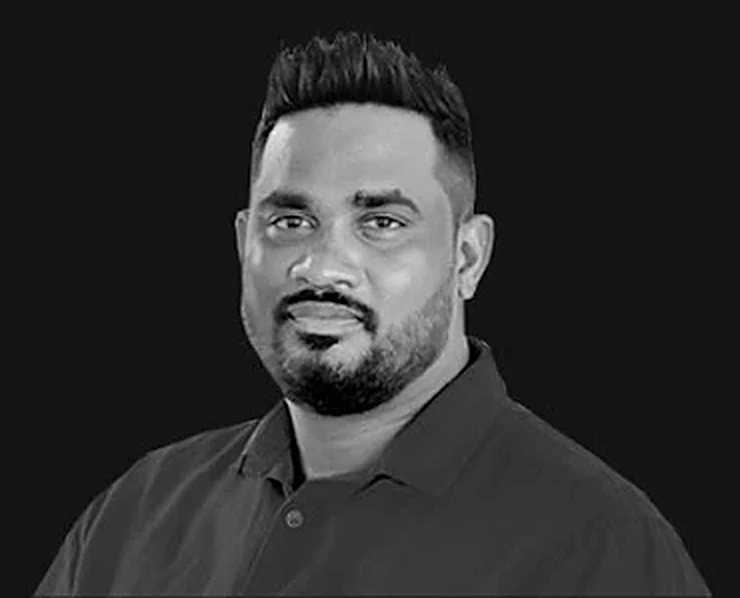
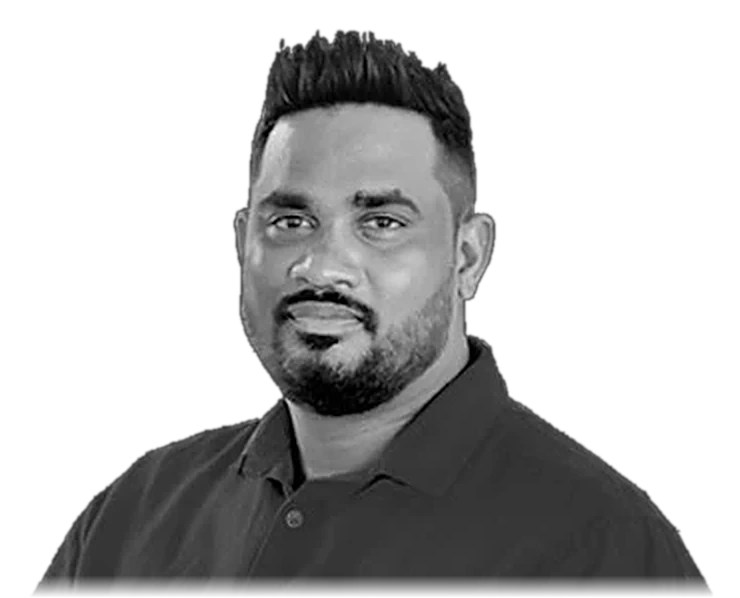
feat(hero): use AI-generated silhouettes, clean cutout Sir photo, and high-contrast hero text

diff --git a/src/components/landing/hero-silhouettes.tsx b/src/components/landing/hero-silhouettes.tsx
@@ -4,100 +4,87 @@ import { motion, type MotionValue, useReducedMotion, useTransform } from "framer
 const ease = [0.22, 1, 0.36, 1] as const;
 
 /**
- * Spaceship-style backlit studio spotlight + two silhouetted figures behind the hero.
- * Uses the active theme's --brand-500/--brand-600 glow and animates with scroll parallax.
+ * Spaceship-style backlit studio spotlight + two AI-generated silhouetted student figures behind the hero.
+ * Follows the active theme's --brand-500/--brand-600 glow and animates smoothly with scroll parallax.
  */
 export function HeroSilhouettes({ progress }: { progress: MotionValue<number> }) {
   const reduce = useReducedMotion();
 
-  const beamScale = useTransform(progress, [0, 1], [1, 1.24]);
-  const beamY = useTransform(progress, [0, 1], [0, -55]);
+  const beamScale = useTransform(progress, [0, 1], [1, 1.22]);
+  const beamY = useTransform(progress, [0, 1], [0, -50]);
   const beamOpacity = useTransform(progress, [0, 0.9], [1, 0.25]);
 
-  const leftX = useTransform(progress, [0, 1], [0, -90]);
-  const leftY = useTransform(progress, [0, 1], [0, 48]);
+  const leftX = useTransform(progress, [0, 1], [0, -85]);
+  const leftY = useTransform(progress, [0, 1], [0, 42]);
   const leftScale = useTransform(progress, [0, 1], [1, 1.08]);
 
-  const rightX = useTransform(progress, [0, 1], [0, 110]);
+  const rightX = useTransform(progress, [0, 1], [0, 95]);
   const rightY = useTransform(progress, [0, 1], [0, 28]);
-  const rightScale = useTransform(progress, [0, 1], [1, 1.12]);
+  const rightScale = useTransform(progress, [0, 1], [1, 1.1]);
 
-  const silhouetteOpacity = useTransform(progress, [0, 0.85], [1, 0.2]);
+  const silhouetteOpacity = useTransform(progress, [0, 0.88], [0.92, 0.15]);
 
   return (
     <div aria-hidden className="pointer-events-none absolute inset-0 overflow-hidden select-none">
-      {/* Deep edge vignette so the dark sides blend seamlessly */}
-      <div
-        className="absolute inset-0"
-        style={{
-          background:
-            "radial-gradient(ellipse 68% 78% at 50% 42%, hsl(var(--brand-500) / 0.85) 0%, hsl(var(--brand-600) / 0.55) 36%, hsl(var(--brand-950) / 0.35) 68%, transparent 100%)",
-        }}
-      />
-
-      {/* Angled backlit studio cone beam */}
+      {/* Soft radial studio spotlight glow in active brand shade */}
       <motion.div
         style={reduce ? undefined : { scale: beamScale, y: beamY, opacity: beamOpacity }}
         initial={reduce ? undefined : { opacity: 0, scale: 0.94 }}
         animate={{ opacity: 1, scale: 1 }}
         transition={{ duration: 1.2, ease }}
-        className="absolute inset-x-0 -top-24 bottom-0 flex justify-center"
+        className="absolute inset-0 flex items-center justify-center"
       >
         <div
-          className="h-full w-[min(1180px,135vw)] blur-2xl"
+          className="h-[120%] w-[min(1260px,145vw)] blur-[72px]"
           style={{
             background:
-              "linear-gradient(180deg, hsl(var(--brand-500) / 0.9) 0%, hsl(var(--brand-400) / 0.65) 48%, hsl(var(--brand-600) / 0.12) 92%, transparent 100%)",
-            clipPath: "polygon(22% 0%, 78% 0%, 96% 100%, 4% 100%)",
+              "radial-gradient(ellipse 52% 62% at 50% 44%, hsl(var(--brand-500) / 0.72) 0%, hsl(var(--brand-600) / 0.44) 38%, hsl(var(--brand-800) / 0.18) 65%, transparent 88%)",
           }}
         />
       </motion.div>
 
-      {/* Left silhouette (male figure, slightly further back, turned inward) */}
+      {/* Left silhouette (male figure, framed cleanly on left side, moving outward on scroll) */}
       <motion.div
         style={reduce ? undefined : { x: leftX, y: leftY, scale: leftScale, opacity: silhouetteOpacity }}
         initial={reduce ? undefined : { opacity: 0, y: 36, x: -24 }}
-        animate={{ opacity: 1, y: 0, x: 0 }}
+        animate={{ opacity: 0.92, y: 0, x: 0 }}
         transition={{ duration: 1.0, delay: 0.1, ease }}
-        className="absolute bottom-0 left-[2%] h-[78%] w-[48vw] max-w-[380px] origin-bottom sm:left-[8%] sm:h-[85%] lg:left-[14%] xl:left-[18%]"
+        className="absolute bottom-0 left-[-4%] h-[58%] origin-bottom sm:left-[3%] sm:h-[72%] lg:left-[8%] lg:h-[78%] xl:left-[12%]"
       >
-        <svg
-          viewBox="0 0 360 640"
-          preserveAspectRatio="xMidYMax meet"
-          className="h-full w-full drop-shadow-[0_0_24px_hsl(var(--brand-400)/0.25)]"
-        >
-          <path
-            fill="#04070f"
-            d="M174 34c18 0 34 6 43 17 5 6 7 13 6 20 5 1 11 4 12 8 1 4-2 8-4 11 2 4 4 8 6 12 2 4 4 7 2 10-2 3-5 3-6 5 1 4 0 8-2 11 2 3 1 7-2 9-3 3-8 4-15 6-5 1-10 3-12 7-2 5 0 14 2 22 25 9 50 18 61 35 9 14 14 45 19 85 5 41 9 72 9 77-6 3-13 5-20 6 1 38 3 84 4 118 2 44 6 95 9 147H84c3-54 8-107 10-149 2-32 1-74 2-112-8 2-16 8-19 20-5 20-8 56-11 87-2 23-3 41-2 52 2 12 8 24 8 34 0 8-5 15-10 15-4 0-6-7-7-13-1 7-3 15-8 15-5 0-8-9-8-22 0-16 2-34 2-51 0-34-1-74 5-107 5-28 14-50 28-64 11-11 29-20 51-28 3-10 4-20 2-29-2-6-6-10-10-16-4-7-6-15-6-23-5-2-8-8-8-14 0-5 2-9 5-11-3-8-4-18-2-27 4-18 17-34 37-41 10-4 21-6 31-6Z"
-          />
-        </svg>
+        {/* eslint-disable-next-line @next/next/no-img-element */}
+        <img
+          src="/images/silhouette-male.webp"
+          alt=""
+          loading="eager"
+          decoding="async"
+          className="h-full w-auto max-w-none object-contain object-bottom drop-shadow-[0_0_32px_hsl(var(--brand-400)/0.28)]"
+        />
       </motion.div>
 
-      {/* Right silhouette (female figure with long hair, closer foreground, profile facing left) */}
+      {/* Right silhouette (female figure with long hair, framed cleanly on right side) */}
       <motion.div
         style={reduce ? undefined : { x: rightX, y: rightY, scale: rightScale, opacity: silhouetteOpacity }}
         initial={reduce ? undefined : { opacity: 0, y: 40, x: 28 }}
-        animate={{ opacity: 1, y: 0, x: 0 }}
+        animate={{ opacity: 0.92, y: 0, x: 0 }}
         transition={{ duration: 1.05, delay: 0.18, ease }}
-        className="absolute bottom-0 right-[-4%] h-[86%] w-[56vw] max-w-[440px] origin-bottom sm:right-[4%] sm:h-[92%] lg:right-[10%] xl:right-[15%]"
+        className="absolute bottom-0 right-[-5%] h-[62%] origin-bottom sm:right-[2%] sm:h-[76%] lg:right-[7%] lg:h-[82%] xl:right-[11%]"
       >
-        <svg
-          viewBox="0 0 420 680"
-          preserveAspectRatio="xMidYMax meet"
-          className="h-full w-full drop-shadow-[0_0_28px_hsl(var(--brand-400)/0.25)]"
-        >
-          <path
-            fill="#03050c"
-            d="M206 16c26 0 49 12 64 31 15 20 24 50 32 95 7 40 12 72 22 104 20 12 36 27 44 48 9 23 15 62 24 126 10 68 20 144 28 260H102c-2-36-5-72-7-105-3-47-6-86-6-114-5 1-11-1-15-5-3-4-4-11-4-20 0-34 2-74 9-107 7-31 18-52 34-66 13-12 29-22 45-31 5-14 7-30 5-44-10-1-18-5-24-11-5-5-8-12-9-19-4-2-7-5-7-9 0-3 3-6 5-8-3-3-6-6-7-10-1-4 1-8 4-11-3-3-7-5-10-9-3-4-4-8-2-12 3-6 9-13 13-22 4-9 6-20 11-29 9-17 25-28 45-33 7-2 15-3 22-3Z"
-          />
-        </svg>
+        {/* eslint-disable-next-line @next/next/no-img-element */}
+        <img
+          src="/images/silhouette-female.webp"
+          alt=""
+          loading="eager"
+          decoding="async"
+          className="h-full w-auto max-w-none object-contain object-bottom drop-shadow-[0_0_32px_hsl(var(--brand-400)/0.28)]"
+        />
       </motion.div>
 
-      {/* Soft top/bottom atmospheric blends into navbar & page transition */}
+      {/* Subtle dark atmospheric top vignette + center depth scrim so foreground text always pops sharply */}
       <div
-        className="absolute inset-x-0 top-0 h-32"
+        className="absolute inset-0"
         style={{
-          background: "linear-gradient(180deg, rgba(2,6,18,0.55) 0%, transparent 100%)",
+          background:
+            "radial-gradient(ellipse 64% 50% at 50% 34%, rgba(4,9,24,0.42) 0%, transparent 72%), linear-gradient(180deg, rgba(2,6,18,0.62) 0%, rgba(2,6,18,0.12) 28%, rgba(2,6,18,0.22) 100%)",
         }}
       />
     </div>

diff --git a/src/components/landing/hero-banner.tsx b/src/components/landing/hero-banner.tsx
@@ -19,26 +19,29 @@ export function HeroBanner({ label, className, photo }: { label: string; classNa
   return (
     <div className={className}>
       <div aria-hidden className="relative w-full max-w-[1000px] select-none overflow-hidden text-white [container-type:inline-size] [text-rendering:geometricPrecision]" style={{ aspectRatio: "1000 / 351" }}>
-        {/* Sir's photo — its edges fade into the page so the cut-out never shows a box */}
+        {/* Sir's photo — transparent cutout with a gentle bottom-only fade so no box border ever shows */}
         <Image src={photo || "/images/hasitha-hero.webp"} alt="" width={740} height={598} priority sizes="(min-width:1040px) 370px, 37vw"
-          className="absolute bottom-0 h-auto w-[37%] [mask-image:linear-gradient(to_right,transparent,#000_14%,#000_86%,transparent)]" style={{ left: "57.5%" }} />
-        <span className="absolute bg-brand-500" style={{ ...pct(912, 66), width: "5.5%", height: "33.5%", maskImage: "url(/images/hero-comma.png)", WebkitMaskImage: "url(/images/hero-comma.png)", maskSize: "100% 100%", WebkitMaskSize: "100% 100%" }} />
+          className={photo
+            ? "absolute bottom-0 h-auto w-[37%] [mask-image:radial-gradient(ellipse_74%_86%_at_50%_54%,#000_52%,transparent_94%)]"
+            : "absolute bottom-0 h-auto w-[37%] drop-shadow-[0_14px_30px_rgba(0,0,0,0.45)] [mask-image:linear-gradient(to_bottom,#000_86%,transparent)]"}
+          style={{ left: "57.5%" }} />
+        <span className="absolute bg-white/95 drop-shadow-[0_6px_18px_rgba(0,0,0,0.35)]" style={{ ...pct(912, 66), width: "5.5%", height: "33.5%", maskImage: "url(/images/hero-comma.png)", WebkitMaskImage: "url(/images/hero-comma.png)", maskSize: "100% 100%", WebkitMaskSize: "100% 100%" }} />
 
         <HeroYearBadge label={label} />
 
-        <p className="absolute whitespace-nowrap font-display font-bold uppercase text-white/90 max-[520px]:hidden" style={{ ...pct(175, 68), fontSize: "1cqw", letterSpacing: "0.21em", lineHeight: 1.2 }}>G.C.E Advanced Level Examination</p>
-        <p className="absolute whitespace-nowrap font-display font-extrabold uppercase text-white" style={{ ...pct(172, 84), fontSize: "4cqw", lineHeight: 1, letterSpacing: "-0.01em" }}>Combined</p>
-        <p className="absolute whitespace-nowrap font-display font-extrabold uppercase" style={{ ...pct(172, 121), fontSize: "4cqw", lineHeight: 1, letterSpacing: "-0.01em", color: "#a8a8a8" }}>Mathematics</p>
-        <span className="absolute rounded-full bg-brand-500" style={{ ...pct(173, 165), width: "23.8%", height: "1.1%", minHeight: 2 }} />
+        <p className="absolute whitespace-nowrap font-display font-bold uppercase text-white/90 drop-shadow-[0_2px_10px_rgba(0,0,0,0.5)] max-[520px]:hidden" style={{ ...pct(175, 68), fontSize: "1cqw", letterSpacing: "0.21em", lineHeight: 1.2 }}>G.C.E Advanced Level Examination</p>
+        <p className="absolute whitespace-nowrap font-display font-extrabold uppercase text-white drop-shadow-[0_3px_14px_rgba(0,0,0,0.55)]" style={{ ...pct(172, 84), fontSize: "4cqw", lineHeight: 1, letterSpacing: "-0.01em" }}>Combined</p>
+        <p className="absolute whitespace-nowrap font-display font-extrabold uppercase text-white/85 drop-shadow-[0_3px_14px_rgba(0,0,0,0.55)]" style={{ ...pct(172, 121), fontSize: "4cqw", lineHeight: 1, letterSpacing: "-0.01em" }}>Mathematics</p>
+        <span className="absolute rounded-full bg-white/90 shadow-sm" style={{ ...pct(173, 165), width: "23.8%", height: "1.1%", minHeight: 2 }} />
 
-        <p className="absolute whitespace-nowrap font-sans font-extrabold" style={{ ...pct(172, 196), fontSize: "5.4cqw", lineHeight: 1.15 }}>
-          <span className="text-brand-500">හසිත</span>{" "}<span style={{ color: "#b4b4b4" }}>මධුසංක</span>
-          <span className="ml-[0.7cqw] align-baseline font-semibold text-white/80 max-[520px]:hidden" style={{ fontSize: "0.95cqw" }}>B.Sc</span>
+        <p className="absolute whitespace-nowrap font-sans font-extrabold drop-shadow-[0_4px_18px_rgba(0,0,0,0.6)]" style={{ ...pct(172, 196), fontSize: "5.4cqw", lineHeight: 1.15 }}>
+          <span className="text-white">හසිත</span>{" "}<span className="text-brand-100">මධුසංක</span>
+          <span className="ml-[0.7cqw] align-baseline font-semibold text-white/85 max-[520px]:hidden" style={{ fontSize: "0.95cqw" }}>B.Sc</span>
         </p>
-        <p className="absolute whitespace-nowrap font-sans font-semibold text-white/95 max-[520px]:hidden" style={{ ...pct(176, 268), fontSize: "1.15cqw", lineHeight: 1.2 }}>{contact}</p>
+        <p className="absolute whitespace-nowrap font-sans font-semibold text-white/95 drop-shadow-[0_2px_10px_rgba(0,0,0,0.55)] max-[520px]:hidden" style={{ ...pct(176, 268), fontSize: "1.15cqw", lineHeight: 1.2 }}>{contact}</p>
       </div>
       {/* Too small to read inside the picture on phones, so the numbers sit under it */}
-      <p className="mt-2 text-center text-xs font-semibold text-white/80 min-[521px]:hidden">{contact}</p>
+      <p className="mt-2 text-center text-xs font-semibold text-white/90 min-[521px]:hidden">{contact}</p>
     </div>
   );
 }
